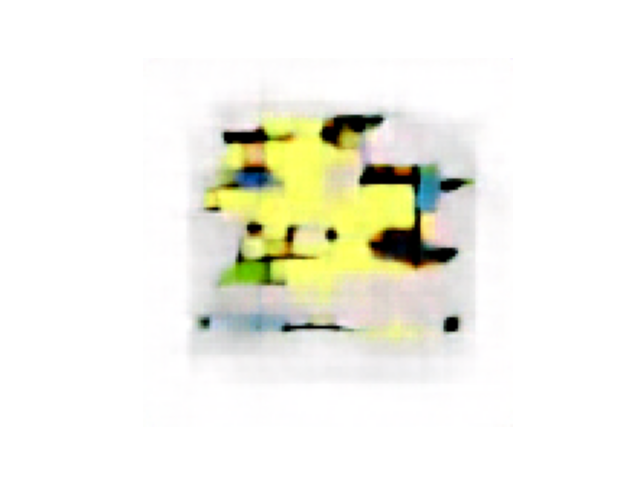
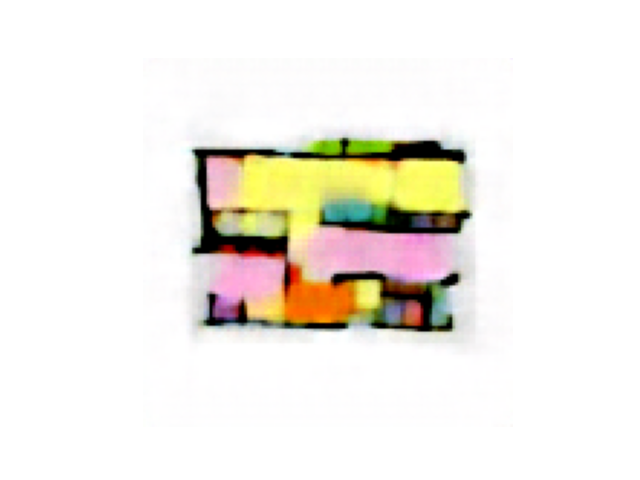
Updated the code

Changed region(s): [[0.2812, 0.1875, 0.75, 0.75]]

diff --git a/streamlitapp/streamlit.py b/streamlitapp/streamlit.py
@@ -27,41 +27,51 @@ import torch
 import wandb
 
 
-# Download the artifact
-input_text = 'the first floor has two kitchen one living room two bathrooms three bedrooms.'
+# Downloading the artifact from wandb
+@st.cache
+def downloading_model():
+    run = wandb.init()
+    artifact = run.use_artifact('sjsu-cmpe-258-musketeers/cubicasa-dalle/trained-dalle:v5', type='model')
+    artifact_dir = artifact.download()
 
+# Load the downloaded dalle model for the floor plan generator
+@st.cache
+def loading_model():
+    loaded_obj = torch.load(str('./artifacts/trained-dalle:v5/dalle-final.pt'), map_location='cpu')
+    dalle_params, vae_params, weights = loaded_obj['hparams'], loaded_obj['vae_params'], loaded_obj['weights']
+    vae = DiscreteVAE(**vae_params)
+    dalle = DALLE(vae=vae, **dalle_params)
+    dalle.load_state_dict(weights)
+    return dalle
 
-run = wandb.init()
-artifact = run.use_artifact('sjsu-cmpe-258-musketeers/cubicasa-dalle/trained-dalle:v5', type='model')
-artifact_dir = artifact.download()
+# Generating the image and displaying it on the UI
+def generate_image_and_display():
+    st.write('Dalle designed floorplan!!')
+    image = Image.open('mygraph.png')
+    st.image(image, caption='Your Dream home is ready ;)')
 
-loaded_obj = torch.load(str('./artifacts/trained-dalle:v5/dalle-final.pt'), map_location='cpu')
-dalle_params, vae_params, weights = loaded_obj['hparams'], loaded_obj['vae_params'], loaded_obj['weights']
-vae = DiscreteVAE(**vae_params)
-dalle = DALLE(vae=vae, **dalle_params)
-dalle.load_state_dict(weights)
+# Dalle generating the floor plan
+def generate_floow_plan(input_text, dalle):
+    with st.spinner('Waiting for Model to Run...'):
+        descriptions = list(filter(lambda t: len(t) > 0, input_text))
+        text_token = tokenizer.tokenize(descriptions, 256).squeeze(0)
+        image = dalle.generate_images(text_token[:1], filter_thres = 0.9)
+        st.success('Done!')
 
-with st.spinner('Waiting for Model to Run...'):
-    descriptions = list(filter(lambda t: len(t) > 0, input_text))
-    text_token = tokenizer.tokenize(descriptions, 256).squeeze(0)
-    image = dalle.generate_images(text_token[:1], filter_thres = 0.9)
-st.success('Done!')
+    with st.spinner('Waiting for Visualization to Run...'):
+        arr_ = np.squeeze(image[0].permute(1,2,0).cpu())
+        print(input_text)
+        plt.imshow(arr_)
+        plt.axis('off')
+        plt.savefig("mygraph.png")
 
-with st.spinner('Waiting for Visualization to Run...'):
-    arr_ = np.squeeze(image[0].permute(1,2,0).cpu())
-    print(input_text)
-    plt.imshow(arr_)
-    plt.axis('off')
-    plt.savefig("mygraph.png")
-st.success('Done!')
+downloading_model()
+dalle_t = loading_model()
 
-st.title('Classifying insincere content in Social Media Posts')
-st.write('Evaluate your questions against Quora Model!')
-text_input = st.text_input('Check your Quora Questions', value='', type='default')
+st.title('Enter the description of the Floor plan you want')
+st.write('For Example: One bedroom with two kitchen....')
+text_input = st.text_input('Enter your description, value=', type='default')
 
-image = Image.open('mygraph.png')
-st.image(image, caption='Sunrise by the mountains')
-# Setting up the page
-st.title('Classifying insincere content in Social Media Posts')
-st.write('Evaluate your questions against Quora Model!')
-text_input = st.text_input('Check your Quora Questions', value='', type='default')
+if st.button('Get Floor plan'):
+    generate_floow_plan(text_input, dalle_t)
+    generate_image_and_display()
